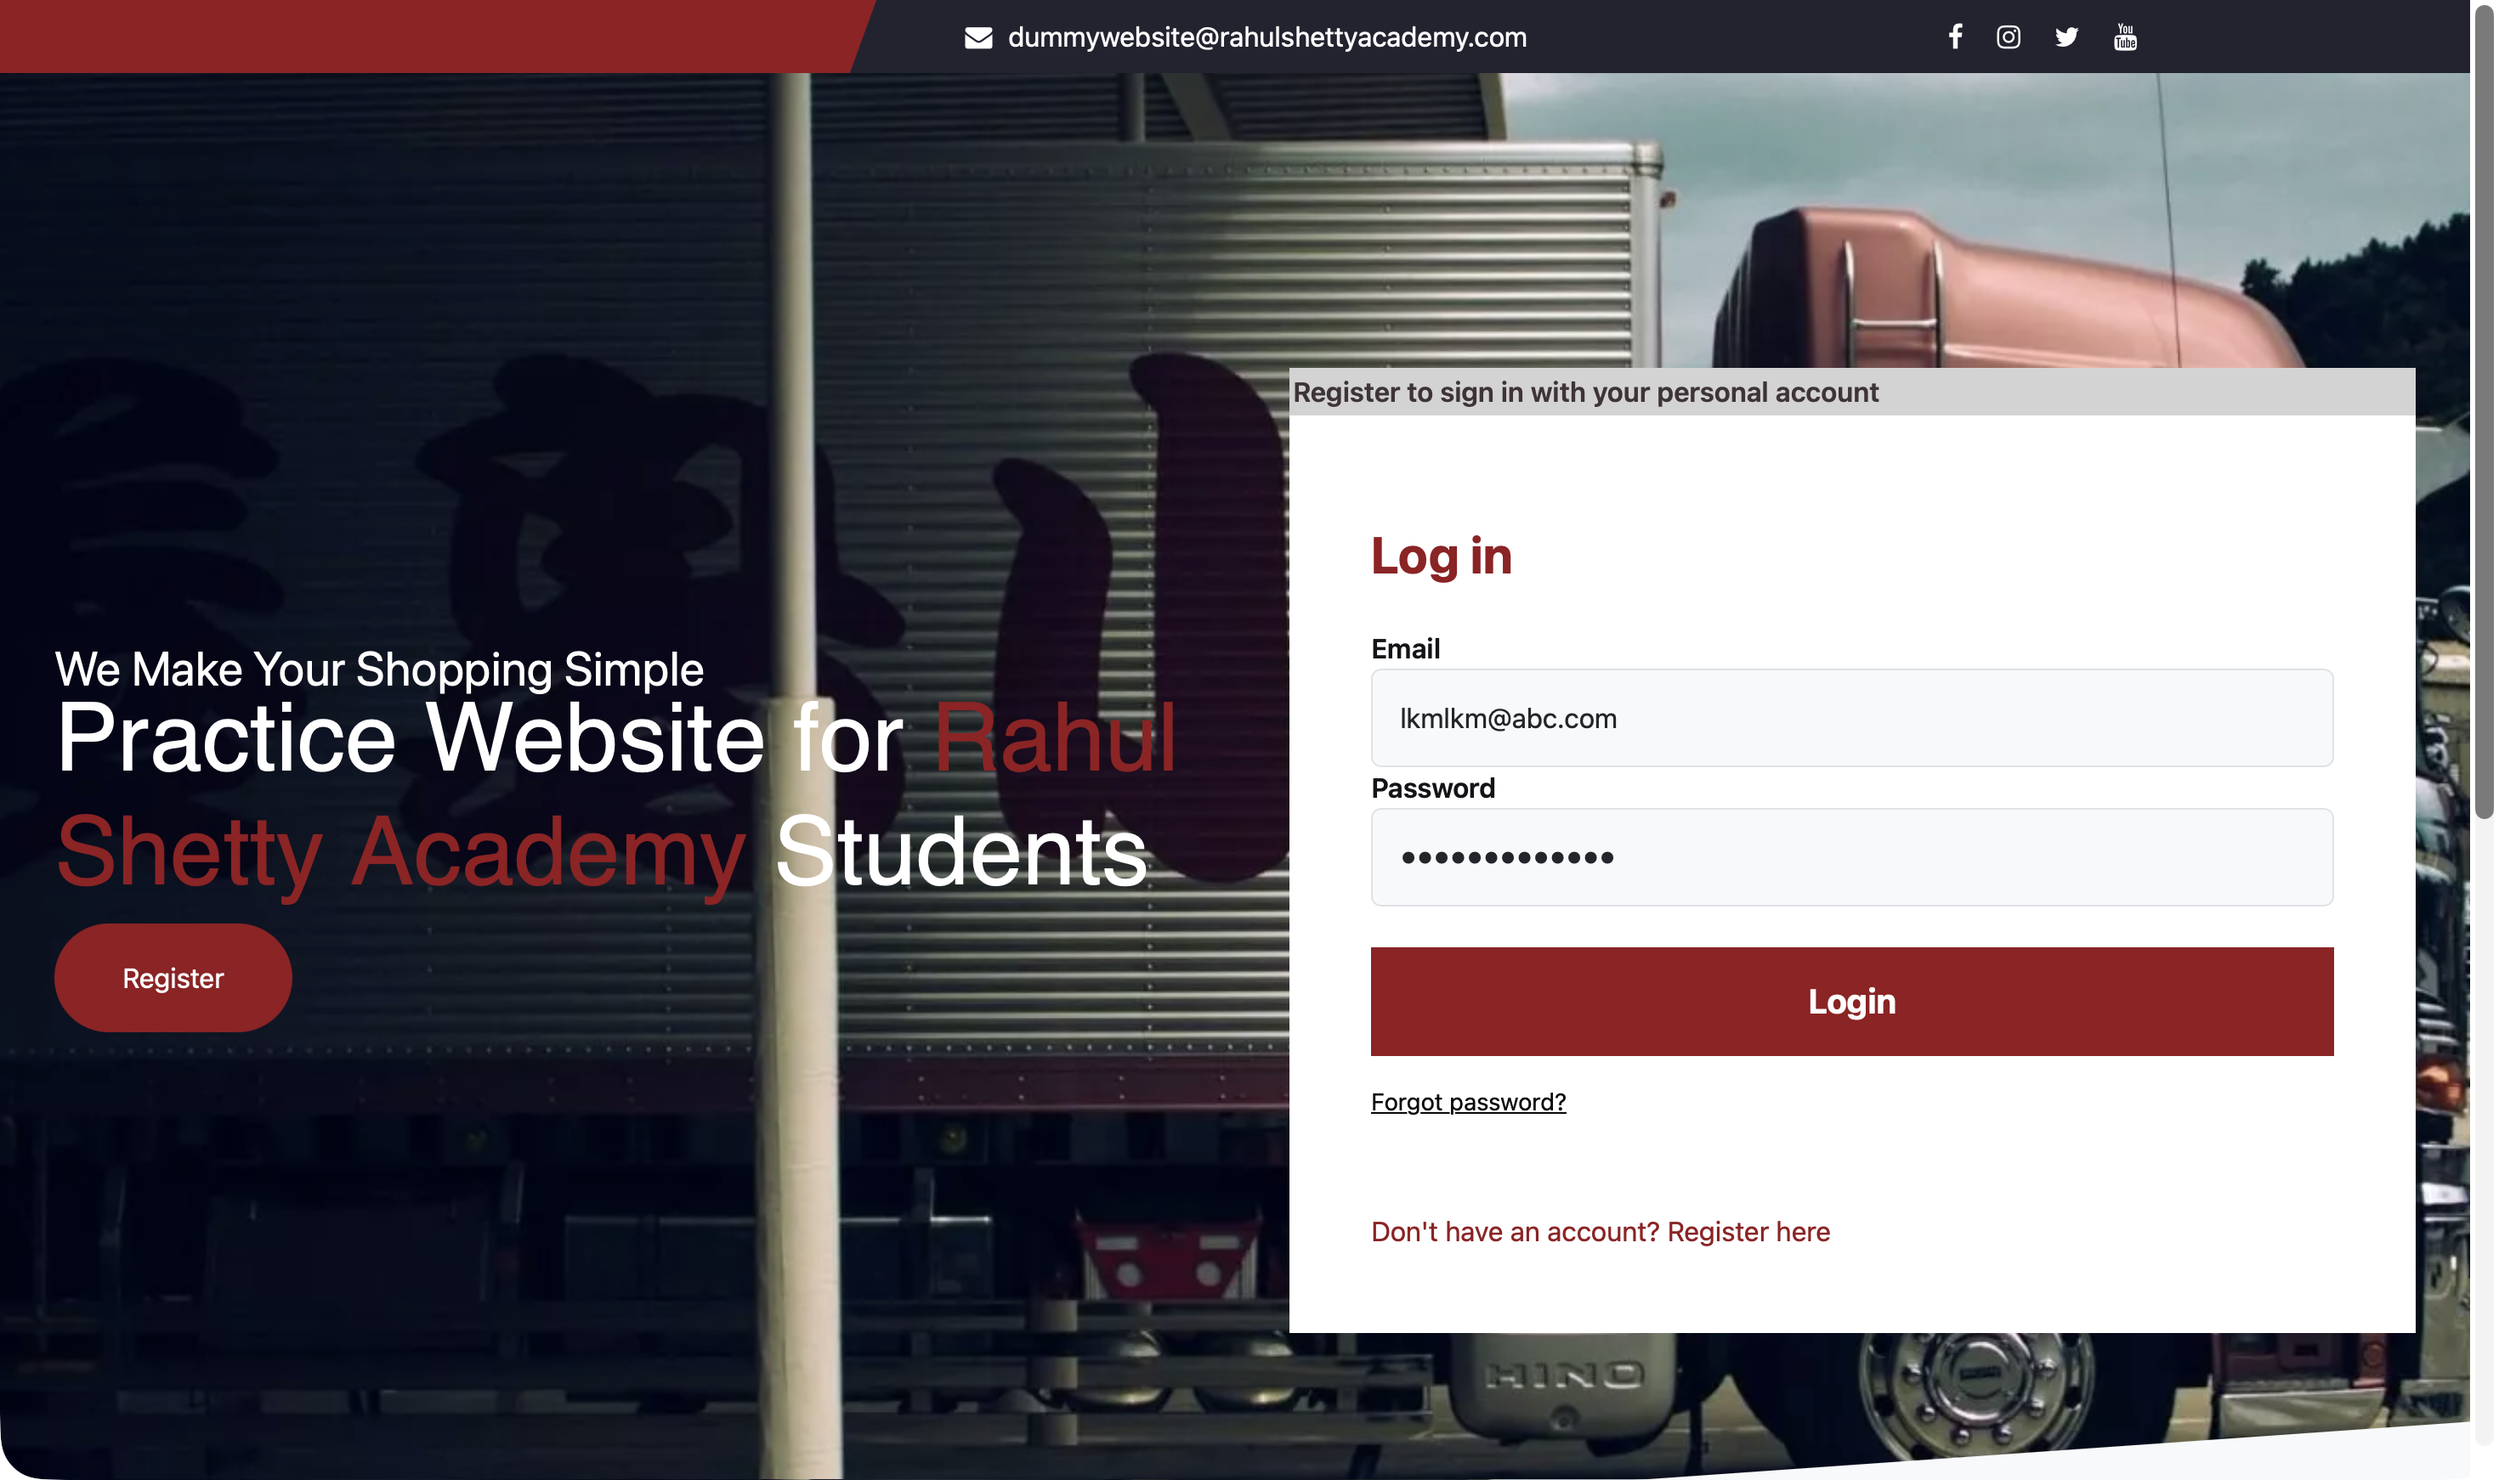
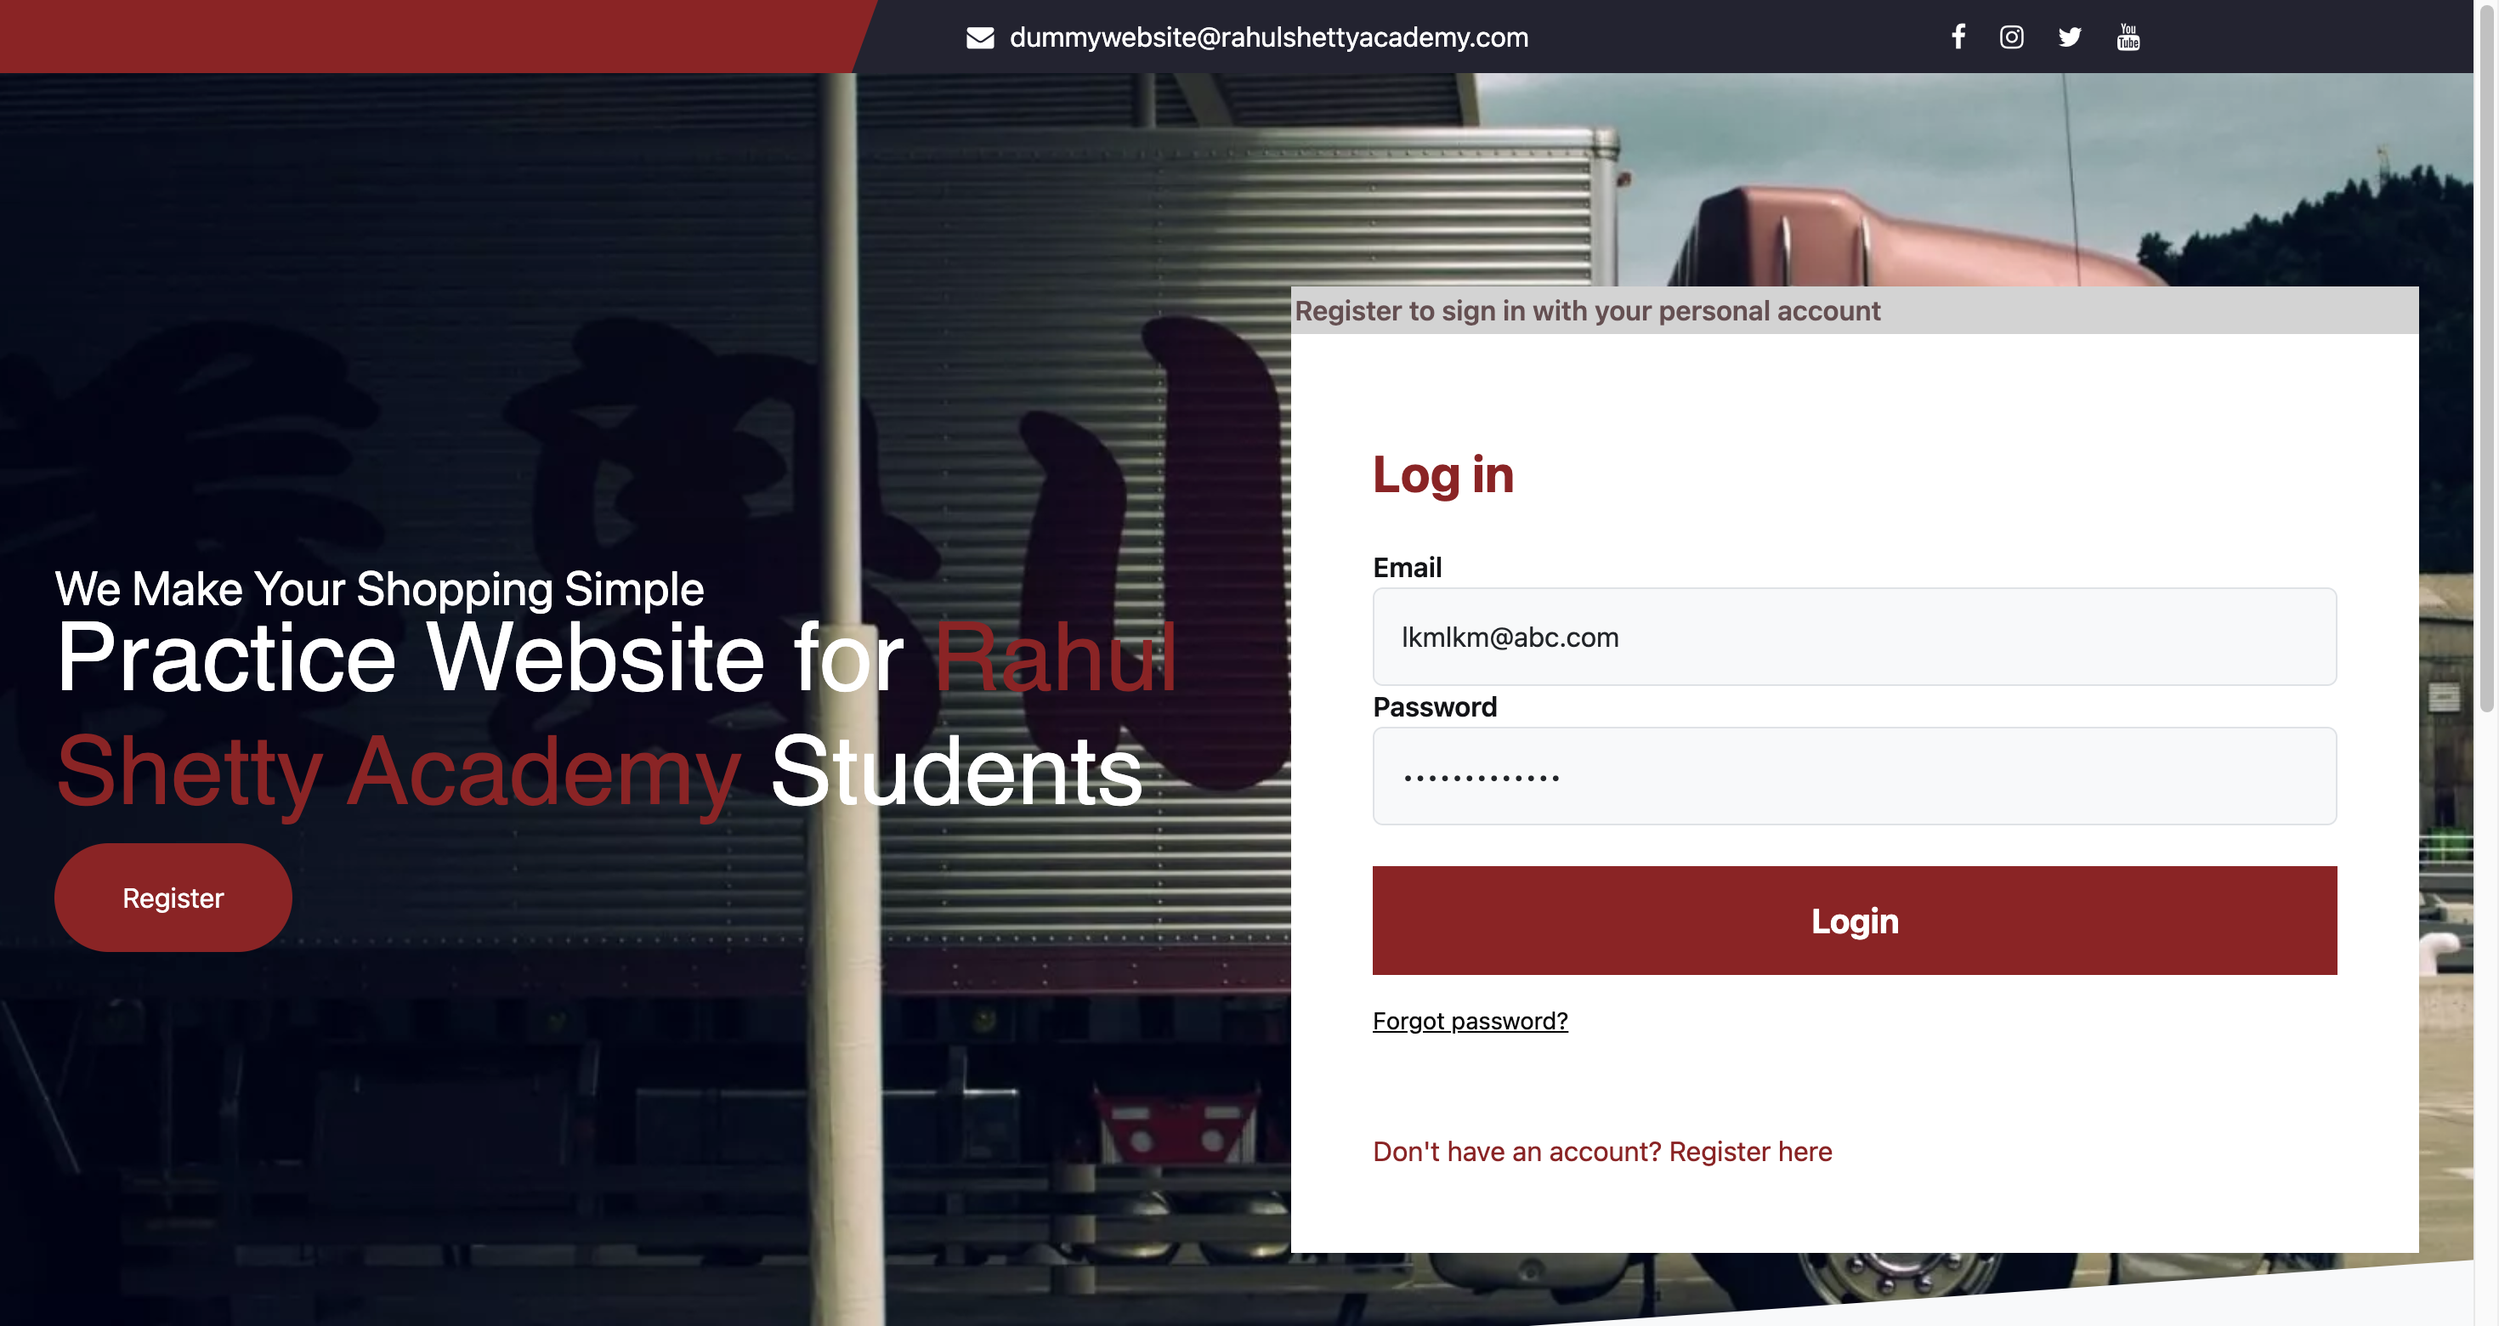
Restored Cucumber setup on local staging branch

diff --git a/src/test/java/framework/stepDefinition/MyStepdefs.java b/src/test/java/framework/stepDefinition/MyStepdefs.java
@@ -1,0 +1,74 @@
+package framework.stepDefinition;
+
+import framework.pageobjects.*;
+import framework.testcomponents.BaseTest;
+import io.cucumber.java.After;
+import io.cucumber.java.Before;
+import io.cucumber.java.en.And;
+import io.cucumber.java.en.Given;
+import io.cucumber.java.en.Then;
+import io.cucumber.java.en.When;
+import org.openqa.selenium.WebElement;
+import org.testng.Assert;
+import org.testng.ITestResult;
+
+import java.io.IOException;
+import java.util.List;
+
+public abstract class MyStepdefs {
+
+    BaseTest baseTest = new BaseTest() {
+        @Override
+        public void onFinish(ITestResult result) {
+
+        }
+    };
+
+    public LandingPage landingPage;
+    public ProductCatalogue productCatalogue;
+    public ResultPage resultPage;
+    String confirmMessage;
+
+
+    @Before
+    public void setupScenario() throws IOException {
+        // 🟢 Cleanly launch app before every Cucumber scenario
+        landingPage = baseTest.launchApplication();
+    }
+    @Given("I landed on Ecommerce Page")
+    public void iLandedOnEcommercePage(){
+    }
+
+    @Given("^Logged in with username (.+) and password (.+)$")
+    public void loggedInWithUsernameNameAndPasswordPassword(String username, String password) throws Throwable {
+        productCatalogue = landingPage.loginApp(username, password);
+    }
+
+    @When("^I add product (.+) to Cart$")
+    public void iAddProductProductNameToCart(String productName) throws Throwable {
+        List<WebElement> products = productCatalogue.getProductList();
+        productCatalogue.addProductToCart(productName);
+    }
+
+    @And("^Checkout (.+) and submit the order$")
+    public void checkoutProductNameAndSubmitTheOrder(String productName) throws Throwable {
+        CartPage cartPage = productCatalogue.goToCartPage();
+        Boolean match = cartPage.VerifyProdDisplay(productName);
+        Assert.assertTrue(match, "Product was not found in cart!");
+        CheckoutPage checkoutPage = cartPage.goToCheckout();
+        checkoutPage.selectCountry("India");
+        resultPage = checkoutPage.submitOrder();
+    }
+
+    @Then("{string} message is displayed on ConfirmationPage")
+    public void messageIsDisplayedOnConfirmationPage(String string) {
+        confirmMessage = resultPage.getConfirmationMessage();
+        Assert.assertTrue(confirmMessage.equalsIgnoreCase(string));
+    }
+
+    @After
+    public void tearDownScenario()
+    {
+        baseTest.tearDown();
+    }
+}

diff --git a/src/test/java/framework/cucumber/TestNGTestRunner.java b/src/test/java/framework/cucumber/TestNGTestRunner.java
@@ -1,0 +1,10 @@
+package framework.cucumber;
+
+import io.cucumber.testng.AbstractTestNGCucumberTests;
+import io.cucumber.testng.CucumberOptions;
+
+@CucumberOptions(features="src/test/java/framework/cucumber", glue="framework.stepDefinition", monochrome = true,plugin = {"html:target/cucumber.html"})
+
+public class TestNGTestRunner extends AbstractTestNGCucumberTests {
+
+}
